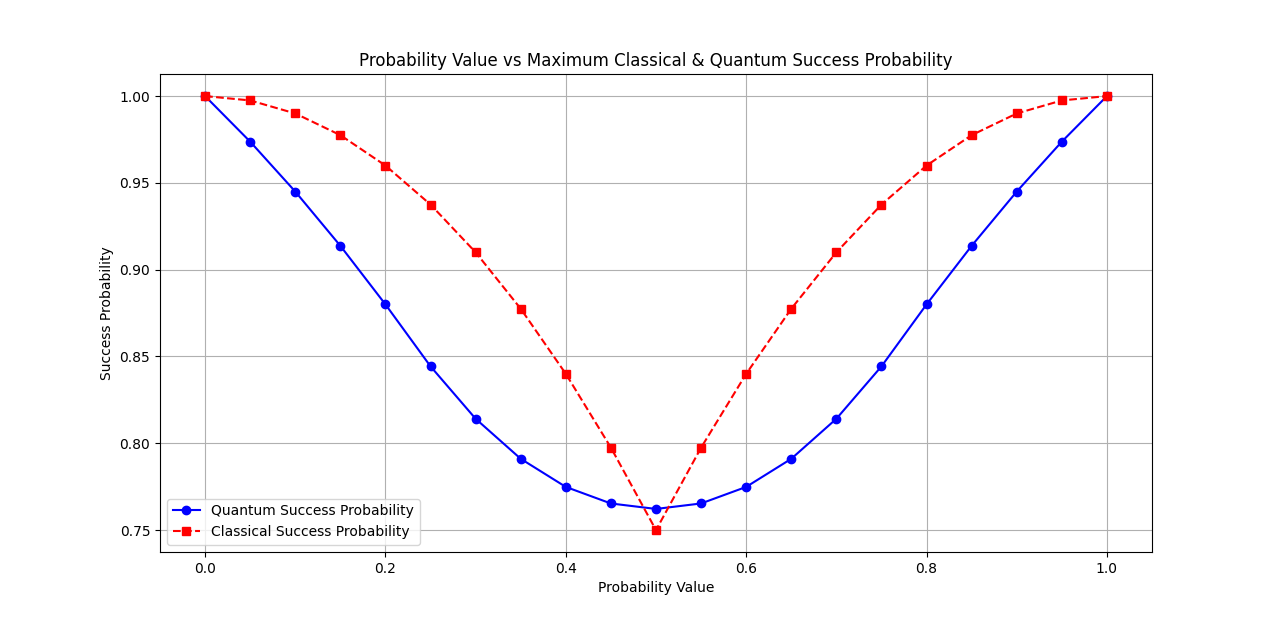
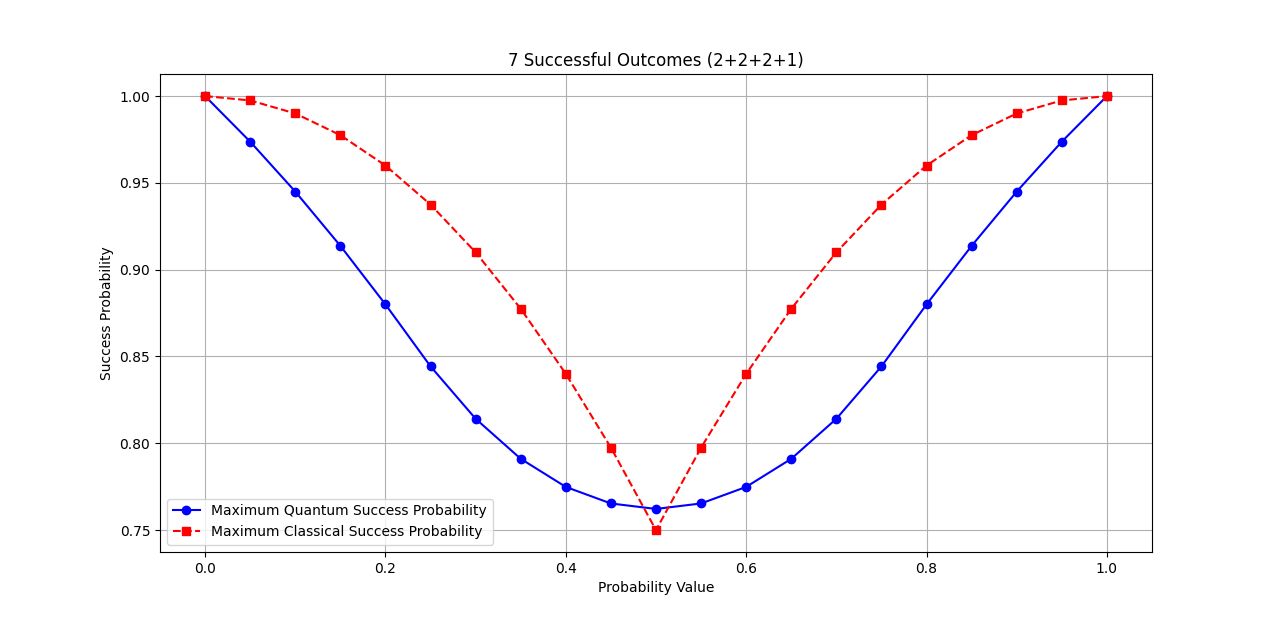
again commit

Changed region(s): [[0.1562, 0.7968, 0.375, 0.8887], [0.2812, 0.0919, 0.75, 0.1226]]

diff --git a/7win_finalplot.py b/7win_finalplot.py
@@ -1,0 +1,27 @@
+import matplotlib.pyplot as plt
+import numpy as np
+
+# Given data
+probability_values = np.array([0, 0.05, 0.1, 0.15, 0.2, 0.25, 0.3, 0.35, 0.4, 0.45, 0.5, 
+                               0.55, 0.6, 0.65, 0.7, 0.75, 0.8, 0.85, 0.9, 0.95, 1])
+quantum_success = np.array([1, 0.97375, 0.945, 0.91375, 0.88, 0.84431, 0.814124, 0.791074, 
+                             0.774878, 0.765334, 0.762189, 0.765345, 0.774877, 0.791073, 
+                             0.814126, 0.84431, 0.88, 0.91375, 0.945, 0.97375, 1])
+classical_success = np.array([1, 0.9975, 0.99, 0.9775, 0.96, 0.9375, 0.91, 0.8775, 0.84, 
+                               0.7975, 0.75, 0.7975, 0.84, 0.8775, 0.91, 0.9375, 0.96, 
+                               0.9775, 0.99, 0.9975, 1])
+
+# Plotting
+plt.figure(figsize=(8, 6))
+plt.plot(probability_values, quantum_success, label='Maximum Quantum Success Probability', marker='o', linestyle='-',color='blue')
+plt.plot(probability_values, classical_success, label='Maximum Classical Success Probability', marker='s', linestyle='--',color='red')
+
+# Labels and title
+plt.xlabel('Probability Value')
+plt.ylabel('Success Probability')
+plt.title('7 Successful Outcomes (2+2+2+1)')
+plt.legend()
+plt.grid()
+
+# Show plot
+plt.show()

diff --git a/9win_finalplot.py b/9win_finalplot.py
@@ -8,10 +8,10 @@ classical_success_prob = [1, 0.9975, 0.99, 0.9775, 0.96, 0.9375, 0.91, 0.8775, 0
 # Create plot
 plt.figure(figsize=(10, 6))
 plt.plot(probability_values, quantum_success_prob, label="Maximum Quantum Success Probability", color="blue", marker='o')
-plt.plot(probability_values, classical_success_prob, label="Maximum Classical Success Probability", color="red", marker='s')
+plt.plot(probability_values, classical_success_prob, label="Maximum Classical Success Probability",linestyle='--', color="red", marker='s')
 
 # Adding titles and labels
-plt.title("Probability vs Maximum Classical and Quantum Success Probability", fontsize=14)
+plt.title("9 Successful Outcomes (3+3+2+1)", fontsize=14)
 plt.xlabel("Probability Value", fontsize=12)
 plt.ylabel("Success Probability", fontsize=12)
 plt.legend()

diff --git a/CHSH_Finalplot.py b/CHSH_Finalplot.py
@@ -11,7 +11,7 @@ plt.plot(p_values, quantum_success, label="Quantum Success Probability", marker=
 plt.plot(p_values, classical_success, label="Classical Success Probability", marker='s', linestyle='--', color='red')
 
 # Labels and Customization
-plt.title("Quantum vs Classical Success Probabilities", fontsize=14)
+plt.title("8 successful outcomes (2+2+2+2)", fontsize=14)
 plt.xlabel("Probability Value", fontsize=12)
 plt.ylabel("Success Probability", fontsize=12)
 plt.legend()
